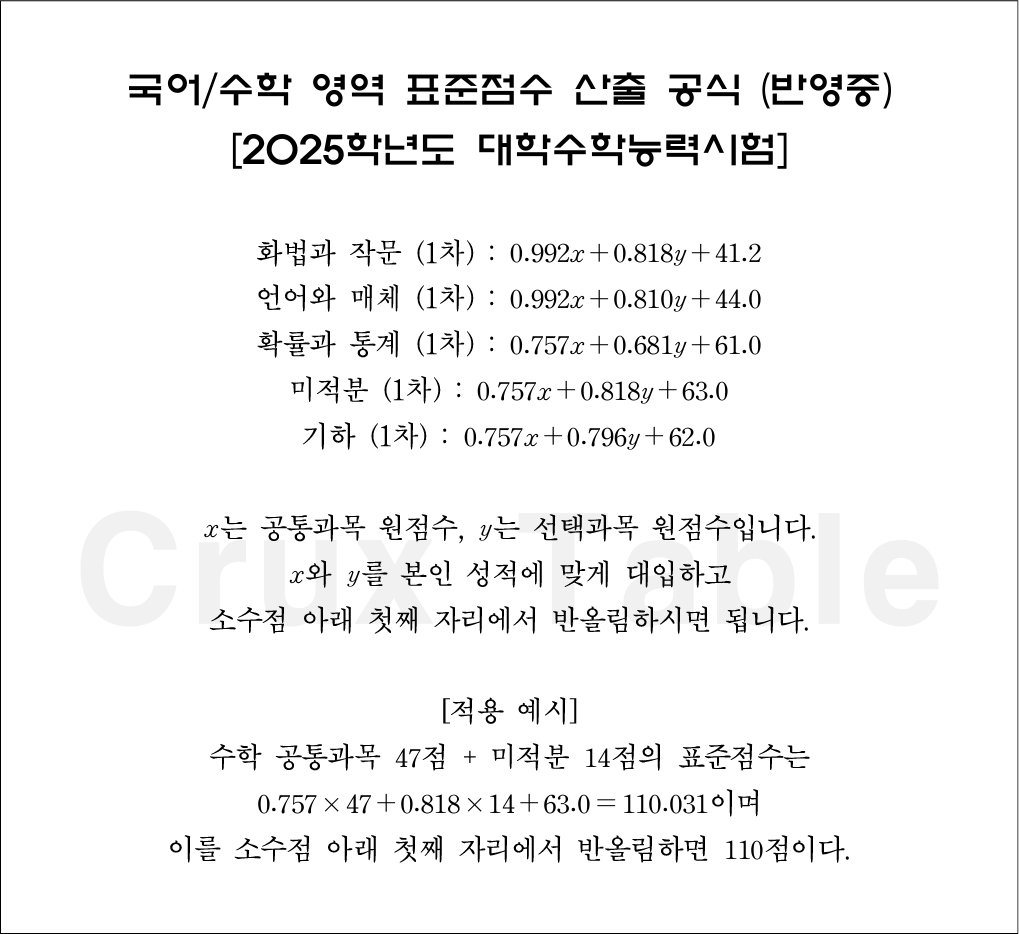
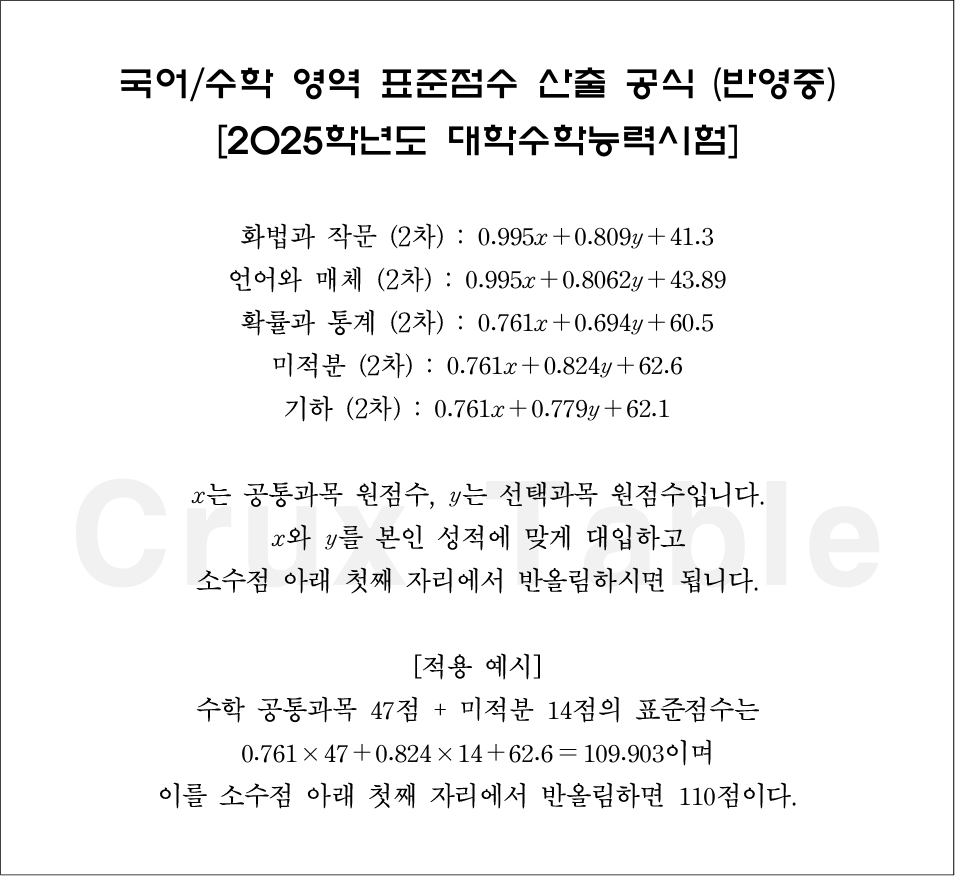
202511 ver.2

diff --git a/js/data.js b/js/data.js
@@ -11844,8 +11844,8 @@ let data = {
     "202511sat": {
         "국어": [
         {
-            "화법과 작문" : [0.992, 0.818, 41.2],
-            "언어와 매체" : [0.992, 0.810, 44.0]
+            "화법과 작문" : [0.995, 0.809, 41.3],
+            "언어와 매체" : [0.995, 0.8062, 43.89]
         },
 ["139", "100", "1"],
 ["137", "100", "1"],
@@ -11947,9 +11947,9 @@ let data = {
 ],
 "수학": [
     {
-        "확률과 통계" : [0.757, 0.681, 61.0],
-        "미적분" : [0.757, 0.818, 63.0],
-        "기하" : [0.757, 0.796, 62.0]
+        "확률과 통계" : [0.761, 0.694, 60.5],
+        "미적분" : [0.761, 0.824, 62.6],
+        "기하" : [0.761, 0.779, 62.1]
     },
 ["140", "100", "1"],
 ["139", "100", "1"],
